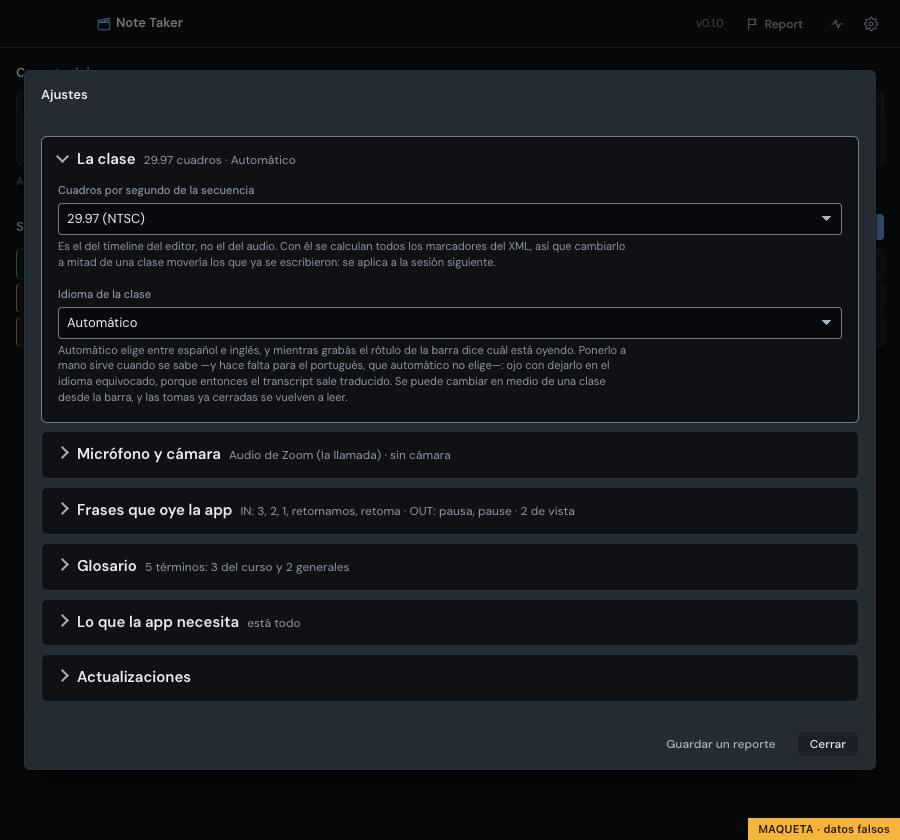
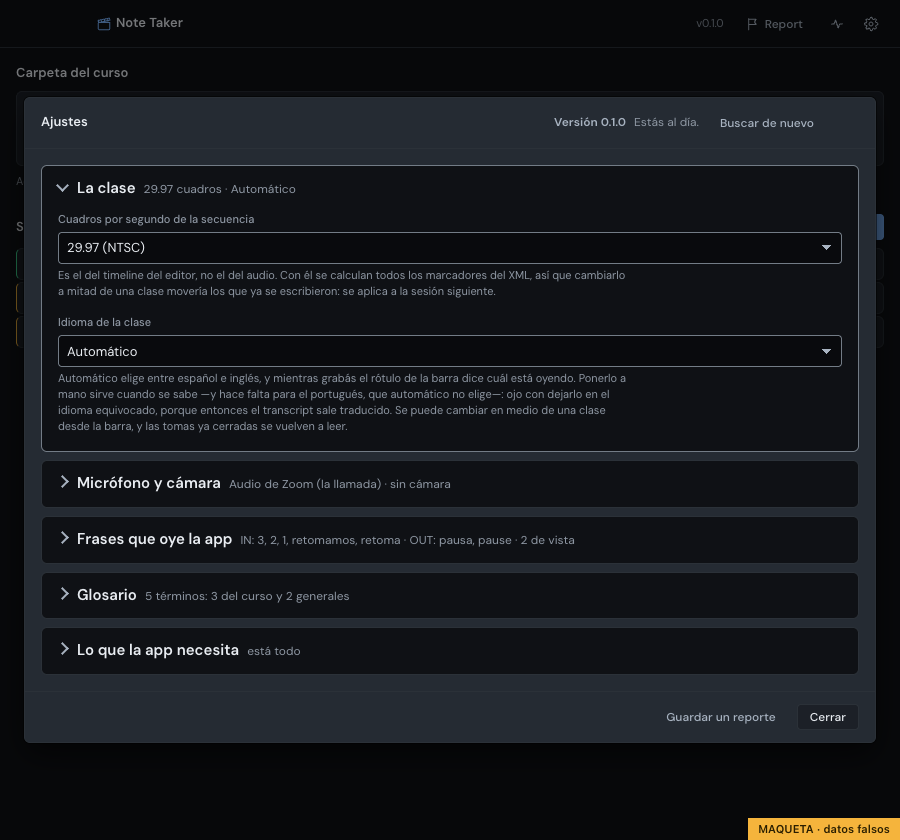
Ajustes: la versión y la actualización en la cabecera
A la derecha de «Ajustes», la versión en la que se está, si está al día y un
botón que dice lo que va a hacer: buscar de nuevo, actualizar a la nueva,
bajando o instalar y reabrir. Se comprueba cada vez que se abre Ajustes. La
sección «Actualizaciones» de abajo ya no hace falta.

Changed region(s): [[0.0, 0.0619, 0.9956, 0.9286]]

diff --git a/src/js/app.js b/src/js/app.js
@@ -82,6 +82,8 @@ const app = {
         await pintarAjustes();
         dependencias.refrescar();
         verPanel('telon-ajustes', true);
+        // Cada vez que se abre, se pregunta: es donde se mira si hay una nueva.
+        buscar(true);
     },
     verDiagnostico() { pintarDiagnostico(); verPanel('telon-diagnostico', true); },
 
@@ -590,8 +592,11 @@ async function pintarDiagnostico() {
 const update = { estado: 'al-dia', version: null, url: null, nombre: null, ruta: null, notas: '' };
 
 function conectarActualizaciones() {
-    $('#btn-buscar-update').addEventListener('click', () => buscar(true));
+    // El botón de Ajustes hace lo que diga: buscar, bajar o instalar.
+    $('#btn-buscar-update').addEventListener('click', () => (
+        update.estado === 'hay' || update.estado === 'lista' ? alApretarUpdate() : buscar(true)));
     $('#btn-update').addEventListener('click', alApretarUpdate);
+    pintarUpdateEnAjustes();
 
     window.nt.onUpdateProgress(p => {
         // `percent` es lo que manda el motor (`updates.download`). Antes acá se
@@ -619,9 +624,30 @@ function conectarActualizaciones() {
 function pintarVersion(version) {
     $('#app-version').textContent = `v${version}`;
     $('#app-version').title = `Note Taker ${version}. Se comprueba solo si hay una nueva.`;
+    $('#aj-version').textContent = `Versión ${version}`;
+}
+
+/** El botón de la cabecera de Ajustes, con lo que va a hacer al apretarlo. */
+function pintarUpdateEnAjustes() {
+    const boton = $('#btn-buscar-update');
+    const hay = update.estado === 'hay' || update.estado === 'lista';
+    boton.classList.toggle('btn-primario', hay);
+    boton.classList.toggle('btn-tenue', !hay);
+    boton.disabled = update.estado === 'bajando';
+    boton.textContent = {
+        'al-dia': 'Buscar de nuevo',
+        hay: `Actualizar a la ${update.version}`,
+        bajando: `Bajando… ${update.pct || 0} %`,
+        lista: 'Instalar y reabrir'
+    }[update.estado] || 'Buscar de nuevo';
+    boton.title = update.estado === 'al-dia'
+        ? 'Preguntar ahora mismo si hay una versión publicada más nueva que esta'
+        : 'Tus ajustes y los modelos se quedan como están.';
+    $('#update-dice').dataset.estado = update.estado;
 }
 
 function pintarUpdate() {
+    pintarUpdateEnAjustes();
     const boton = $('#btn-update');
     if (update.estado === 'al-dia') {
         boton.hidden = true;
@@ -692,7 +718,7 @@ async function buscar(aMano) {
         estado: 'hay', version: r.version, url: r.url, nombre: r.nombre, notas: r.notas || '', ruta: null
     });
     pintarUpdate();
-    $('#update-dice').textContent = `Hay la ${r.version}.`;
+    $('#update-dice').textContent = `Hay una nueva: la ${r.version}.`;
     if (aMano) return;
     // Una sola vez por versión se dice en voz alta; después queda el botón. Con
     // una clase grabando no se dice nada: el botón está ahí y no molesta, y el

diff --git a/src/index.html b/src/index.html
@@ -254,6 +254,13 @@
     <div class="panel-cabeza">
       <span class="v1">Ajustes</span>
       <span class="crece"></span>
+      <!-- La versión y la actualización, a la vista al abrir: se comprueba sola
+           cada vez que se abre Ajustes, y el botón dice qué va a hacer. -->
+      <div class="aj-version">
+        <span class="aj-version-numero" id="aj-version"></span>
+        <span class="aj-version-dice" id="update-dice" role="status"></span>
+        <button id="btn-buscar-update" class="btn btn-tenue" type="button">Buscar de nuevo</button>
+      </div>
       <button class="btn btn-tenue btn-ico" type="button" data-cerrar="telon-ajustes"
               title="Cerrar Ajustes. Cada cosa se guarda al cambiarla, así que no hay nada que confirmar."></button>
     </div>
@@ -417,15 +424,6 @@
         </div>
       </details>
 
-      <details class="aj-seccion" name="ajustes" id="aj-actualizar">
-        <summary><span class="aj-titulo">Actualizaciones</span><span class="aj-resumen" id="update-dice"></span></summary>
-        <div class="aj-contenido">
-          <div class="campo-fila">
-            <button id="btn-buscar-update" class="btn" type="button"
-                    title="Preguntar ahora mismo si hay una versión publicada más nueva que esta">Buscar una versión nueva</button>
-          </div>
-        </div>
-      </details>
     </div>
     <div class="panel-pie">
       <button id="btn-log" class="btn btn-tenue" type="button"

diff --git a/src/css/11-paneles.css b/src/css/11-paneles.css
@@ -347,3 +347,33 @@
   padding-left: var(--sp-4);
   color: var(--warn);
 }
+
+/* La versión y la actualización, en la cabecera de Ajustes. */
+.aj-version {
+  display: flex;
+  align-items: center;
+  gap: var(--sp-3);
+  min-width: 0;
+}
+
+.aj-version-numero {
+  flex: none;
+  font-size: 12px;
+  font-weight: 600;
+  color: var(--text-secondary);
+}
+
+.aj-version-dice {
+  min-width: 0;
+  max-width: 280px;
+  overflow: hidden;
+  font-size: 12px;
+  color: var(--text-muted);
+  white-space: nowrap;
+  text-overflow: ellipsis;
+}
+
+.aj-version-dice[data-estado='hay'],
+.aj-version-dice[data-estado='lista'] {
+  color: var(--accent);
+}
